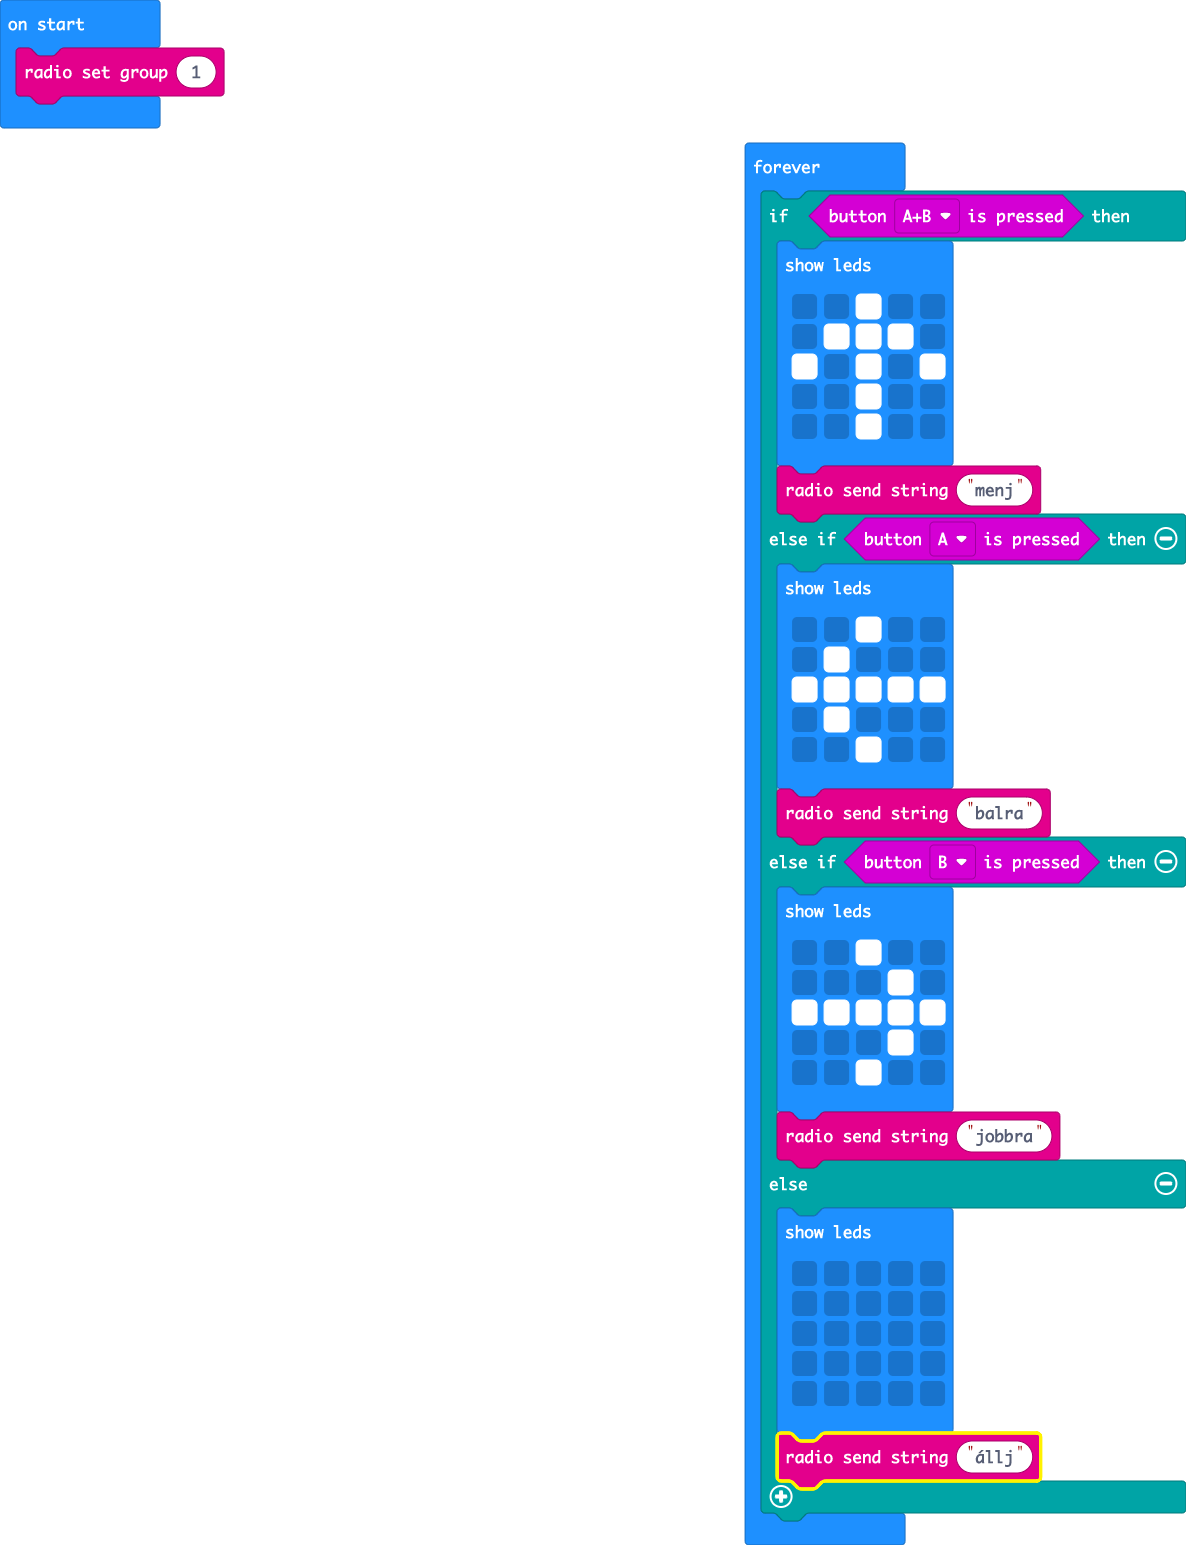
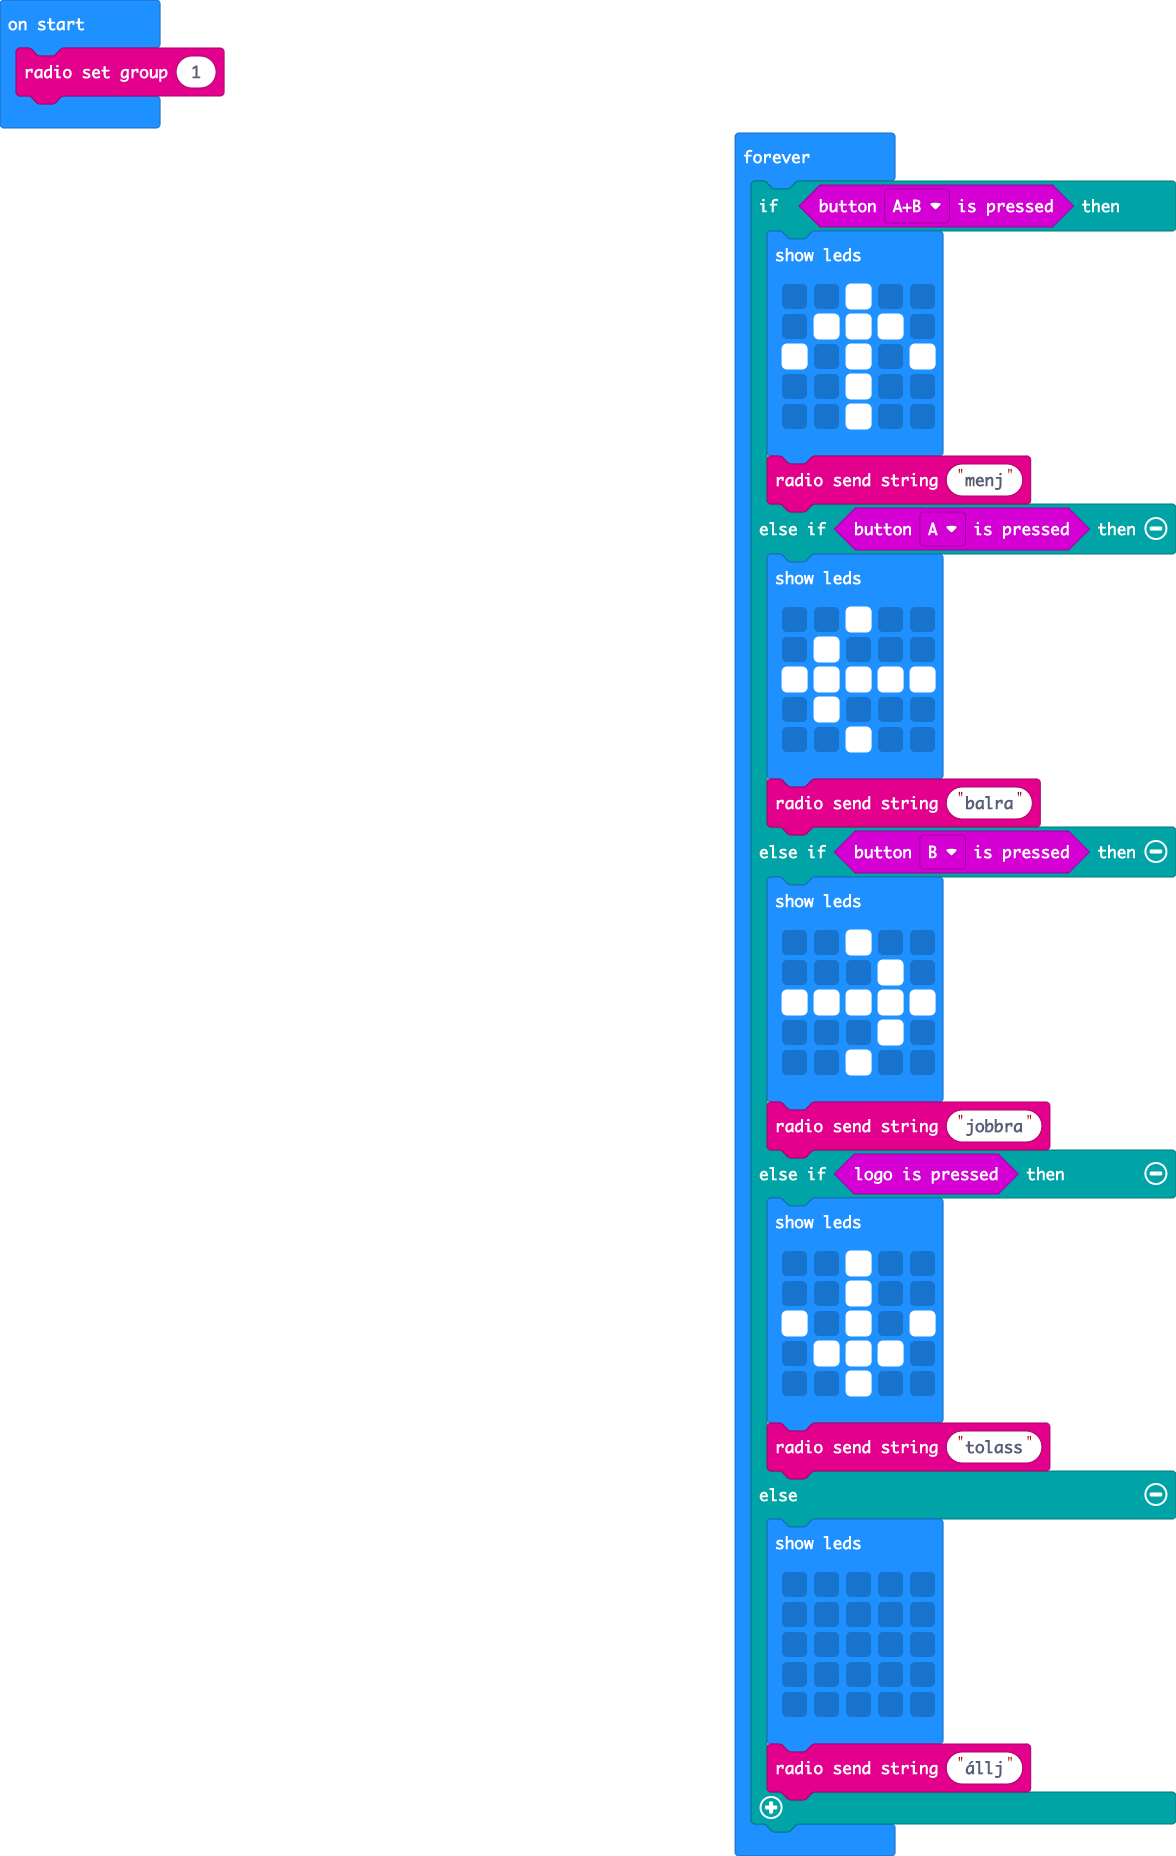
Update pxt.json, main.blocks, main.ts, main.py

Changed region(s): [[0.6122, 0.0621, 1.0, 1.0], [0.0, 0.0, 0.2143, 0.0932]]

diff --git a/main.ts b/main.ts
@@ -27,6 +27,15 @@ basic.forever(function () {
             . . # . .
             `)
         radio.sendString("jobbra")
+    } else if (input.logoIsPressed()) {
+        basic.showLeds(`
+            . . # . .
+            . . # . .
+            # . # . #
+            . # # # .
+            . . # . .
+            `)
+        radio.sendString("tolass")
     } else {
         basic.showLeds(`
             . . . . .

diff --git a/main.py b/main.py
@@ -1,0 +1,49 @@
+radio.set_group(1)
+
+def on_forever():
+    if input.button_is_pressed(Button.AB):
+        basic.show_leds("""
+            . . # . .
+                        . # # # .
+                        # . # . #
+                        . . # . .
+                        . . # . .
+        """)
+        radio.send_string("menj")
+    elif input.button_is_pressed(Button.A):
+        basic.show_leds("""
+            . . # . .
+                        . # . . .
+                        # # # # #
+                        . # . . .
+                        . . # . .
+        """)
+        radio.send_string("balra")
+    elif input.button_is_pressed(Button.B):
+        basic.show_leds("""
+            . . # . .
+                        . . . # .
+                        # # # # #
+                        . . . # .
+                        . . # . .
+        """)
+        radio.send_string("jobbra")
+    elif input.logo_is_pressed():
+        basic.show_leds("""
+            . . # . .
+                        . . # . .
+                        # . # . #
+                        . # # # .
+                        . . # . .
+        """)
+        radio.send_string("tolass")
+    else:
+        basic.show_leds("""
+            . . . . .
+                        . . . . .
+                        . . . . .
+                        . . . . .
+                        . . . . .
+        """)
+        radio.send_string("állj")
+basic.forever(on_forever)
